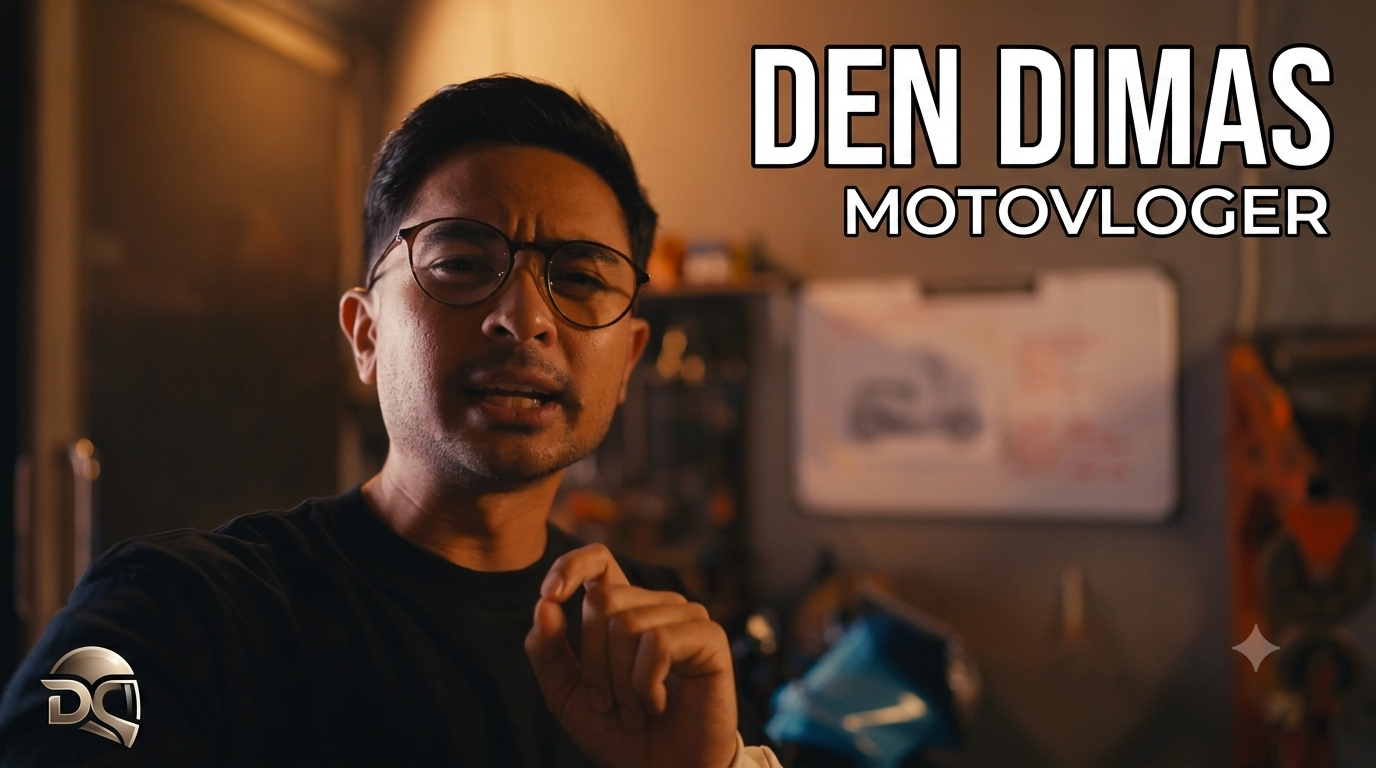
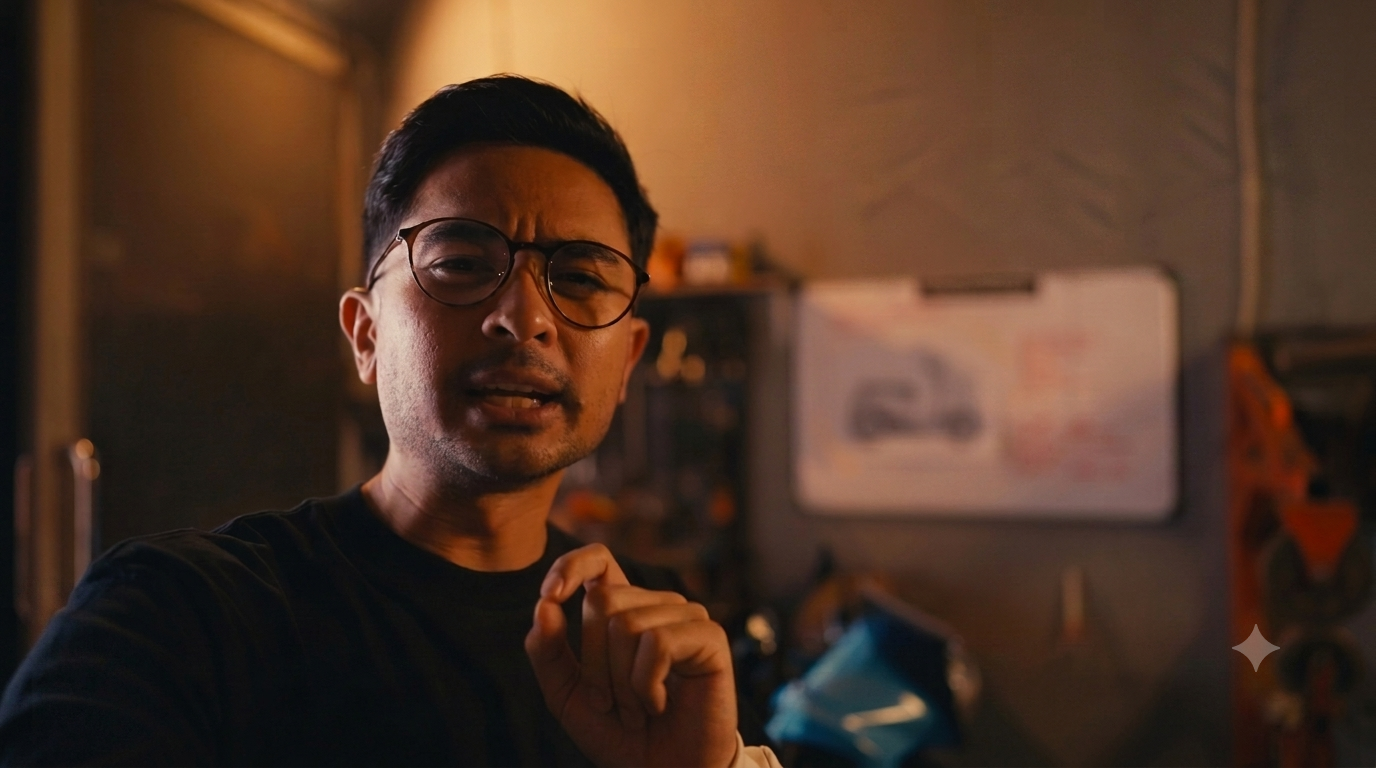
update website

Changed region(s): [[0.5312, 0.0312, 0.9688, 0.3125], [0.0312, 0.8438, 0.125, 0.9688]]

diff --git a/app/data/siteData.js b/app/data/siteData.js
@@ -172,7 +172,7 @@ export const worksData = [
     title: "Dewa United",
     slug: "Dewa United",
     category: "MotorSport", // Kategori sesuai filter
-    image: "/images/motorsport1.jpg", 
+    image: "/images/motorsport1.jpeg", 
     video: "/videos/motorsport1.mp4", // Video Utama (Motorsport 1)
     description:
       "Dewa United Motorsport MFOS Series 2 is a thrilling motorsport event that showcases speed, precision, and the relentless pursuit of excellence. Organized by Dewa United Motorsport, the event brings together racers, automotive enthusiasts, and fans to celebrate the excitement of competitive racing and motorsport culture.",
